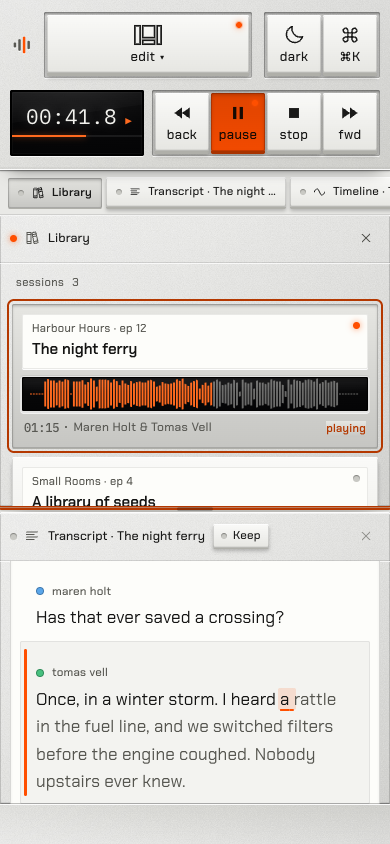
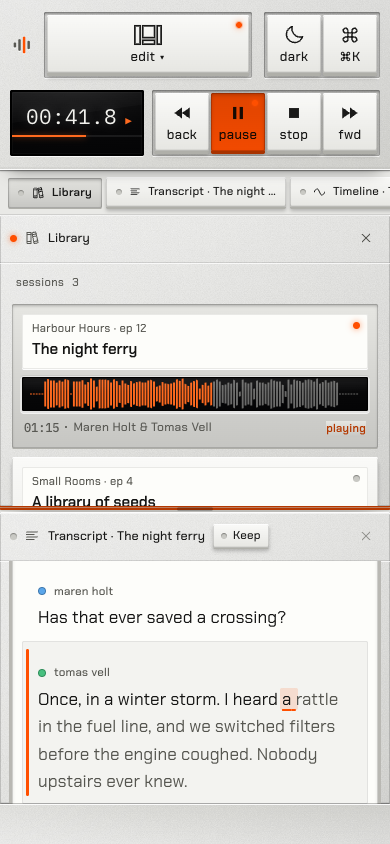
Studio example: selection, keyboard focus and playing as three marks that never stack; no ring on a clicked row

diff --git a/examples/studio/src/styles/panes.css b/examples/studio/src/styles/panes.css
@@ -168,7 +168,7 @@
   /* Three states, three marks: the chosen cartridge is latched with its lamp steady; the one playing pulses its
      lamp and prints "playing"; the keyboard's place is the focus ring, only while the list has keyboard focus. */
   .lib-rows:focus-visible .lib-row[aria-selected="true"] {
-    outline: 2px solid var(--focus);
+    outline: 1.5px solid var(--legend);
     outline-offset: 3px;
   }
   /* The label: a printed paper sticker on the cartridge. */
@@ -307,16 +307,20 @@
     border-radius: var(--corner);
     background: transparent;
   }
-  .tr-seg[data-speaking]::before {
+  /*
+   * Selection, keyboard focus and playing are three marks that never stack (the rule for every list in the app):
+   *  - selected: the orange side bar and a slightly raised tint;
+   *  - keyboard focus (only from the keyboard, `:focus-visible` on the list): a thin neutral inner outline;
+   *  - playing: the word's underline and tint, and the timecode lit.
+   */
+  .tr-seg[aria-selected="true"]::before {
     background: var(--st-signal);
   }
   .tr-seg[aria-selected="true"] {
-    background: light-dark(rgb(0 0 0 / 0.04), rgb(255 255 255 / 0.04));
-    box-shadow: inset 0 0 0 1px var(--paper-rule);
+    background: light-dark(rgb(0 0 0 / 0.04), rgb(255 255 255 / 0.045));
   }
-  .tr-rows:focus-visible .tr-seg[aria-selected="true"],
-  .tr-seg[data-active] {
-    box-shadow: inset 0 0 0 2px var(--st-signal);
+  .tr-rows:focus-visible .tr-seg[aria-selected="true"] {
+    box-shadow: inset 0 0 0 1.5px var(--paper-dim);
   }
   .tr-speaker {
     padding: 14px 0 4px 56px;
@@ -1157,9 +1161,8 @@
 
 @layer app {
   /* While a line is being corrected, its field carries the focus ring: the row's own ring steps back. */
-  .tr-seg:has(.tr-editor),
   .tr-rows:focus-visible .tr-seg:has(.tr-editor) {
-    box-shadow: inset 0 0 0 1px var(--paper-rule);
+    box-shadow: none;
   }
 }
 
@@ -1409,5 +1412,13 @@
   }
   .clip-note-foot > span:first-child:empty {
     display: none;
+  }
+}
+
+@layer app {
+  /* The markers' selected row prints inverted; keyboard focus adds a thin outline outside it, in the LCD's ink. */
+  .mk-rows:focus-visible .mk-row[aria-selected="true"] {
+    outline: 1.5px solid var(--lcd-ink);
+    outline-offset: 2px;
   }
 }

diff --git a/examples/studio/e2e/studio.spec.ts b/examples/studio/e2e/studio.spec.ts
@@ -231,3 +231,26 @@ test("the timeline seeks by click, drag (with pointer capture), the wheel and th
   await page.keyboard.press("ArrowRight");
   await expect.poll(() => seconds(page)).toBe(6);
 });
+
+test("a clicked transcript row is selected without a focus ring; the keyboard adds a light one", async ({
+  page,
+}) => {
+  const rows = page.getByRole("listbox", { name: /Transcript of/ });
+  const ring = (el: import("@playwright/test").Locator) =>
+    el.evaluate((e) => getComputedStyle(e).boxShadow);
+  const bar = (el: import("@playwright/test").Locator) =>
+    el.evaluate((e) => getComputedStyle(e, "::before").backgroundColor);
+  // Click a row: selected (the side bar), no ring.
+  const third = rows.getByRole("option").nth(2);
+  await third.click({ position: { x: 300, y: 20 } });
+  await expect(third).toHaveAttribute("aria-selected", "true");
+  expect(await ring(third)).toBe("none");
+  expect(await bar(third)).not.toBe("rgba(0, 0, 0, 0)");
+  // Move with the keyboard: the next row is selected, with the side bar and a thin neutral outline.
+  await page.keyboard.press("j");
+  const fourth = rows.getByRole("option").nth(3);
+  await expect(fourth).toHaveAttribute("aria-selected", "true");
+  expect(await bar(fourth)).not.toBe("rgba(0, 0, 0, 0)");
+  expect(await ring(fourth)).toContain("inset");
+  expect(await ring(fourth)).not.toContain("255, 79, 0");
+});

diff --git a/examples/studio/e2e/screens.spec.ts b/examples/studio/e2e/screens.spec.ts
@@ -234,3 +234,29 @@ for (const dark of [false, true]) {
       .screenshot({ path: shot(`state-no-audio${dark ? "-dark" : ""}`) });
   });
 }
+
+// A selected transcript row after a click, and after moving to it with the keyboard.
+for (const dark of [false, true]) {
+  test(`transcript rows${dark ? " dark" : ""}`, async ({ page }) => {
+    const d = dark ? "-dark" : "";
+    await page.setViewportSize({ width: 1440, height: 900 });
+    await page.emulateMedia({ colorScheme: dark ? "dark" : "light", reducedMotion: "reduce" });
+    await page.goto("/");
+    const rows = page.getByRole("listbox", { name: /Transcript of/ });
+    await expect(rows).toBeVisible();
+    await rows
+      .getByRole("option")
+      .nth(1)
+      .click({ position: { x: 300, y: 20 } });
+    await page.mouse.move(0, 0);
+    await rows
+      .getByRole("option")
+      .nth(1)
+      .screenshot({ path: shot(`row-selected${d}`) });
+    await page.keyboard.press("j");
+    await rows
+      .getByRole("option")
+      .nth(2)
+      .screenshot({ path: shot(`row-keyboard${d}`) });
+  });
+}

diff --git a/examples/studio/README.md b/examples/studio/README.md
@@ -77,6 +77,7 @@ One material, one light, a few depths. The tokens are in `src/styles/tokens.css`
 - **Channel colours.** One map (`CHANNEL` in `src/sessions/sessions.ts`) used the same way everywhere: Mic A blue, Mic B green, the music bed white, the sting orange. The mixer's lamps and pan rings, the timeline's track headers, and the transcript's speaker marks all read it.
 - **Display states.** A pane with nothing to show, or whose object is gone, shows a small display with a dark lamp ("– – : – –" for empty, "no signal" in orange for a missing object), the title printed under it, a line of help and a key to recover. Loading and a failed audio decode print on the top bar display's title line.
 - **Launcher.** A selector panel: the views of the session as big keys in a pocket (the key face), the library beside them, and recent objects on an LCD list.
+- **Selection, focus, playing.** Three marks that never stack, in every list. Selected: the row's own mark (the transcript's orange side bar and a raised tint; the library cartridge latched with its lamp lit; the markers row printed inverted on the LCD; the timeline segment lit under glass; the palette row latched with its lamp). Keyboard focus: a thin neutral outline, only when focus came from the keyboard (`:focus-visible`), never after a click and never as playback moves the selection. Playing: the word's underline and tint, the lit timecode, the cartridge's pulsing lamp and "playing". No list draws two orange outlines for one row.
 - **Motion.** Keys travel 70ms with a mechanical ease and stop dead; nothing moves under reduced motion.
 
 ### The top bar

diff --git a/examples/studio/FINDINGS.md b/examples/studio/FINDINGS.md
@@ -173,6 +173,8 @@ The deeper restyle (one tiled top row, one set of parts for every button-like th
 26. **The tab's title isn't a public part.** A tab's lamp (Studio's `::before`) took room from the title, which then ran under the close button. Studio reaches the title as `.jali-tab .jali-tab-title` to make it shrink. Want: `.jali-tab-title` public, and the tab's room for its buttons guaranteed whatever the app adds.
 27. **A pane can't render a designed state for an object Jali can't read.** A link naming a session that doesn't exist reaches the component (the param is a valid string), so the app draws its own "no signal" state. A link with a param Jali can't read gets Jali's own message instead, which the app can't style or give a recovery key. Want: a kind-level `Missing` component, like `Loading`, used for both.
 
+28. **The doubled ring on transcript rows was Studio's, not Jali's.** It came from Studio's own rule for a selected row in a focused pane (`[data-active]`), which fired after a click as well as from the keyboard. Jali draws no ring on rows; its focus mark is on the pane (`[data-focused]`). Nothing to change in Jali here; noted so the next reader doesn't look for it there.
+
 Not Jali's, for the record: making the top row one flex row of blocks meant grouping elements in `display: contents` wrappers that keep their roles (`navigation` "Layouts", `group` "Transport", "Tools"). Chrome exposes those roles; it is worth testing in other browsers before relying on it.
 
 ## What worked
